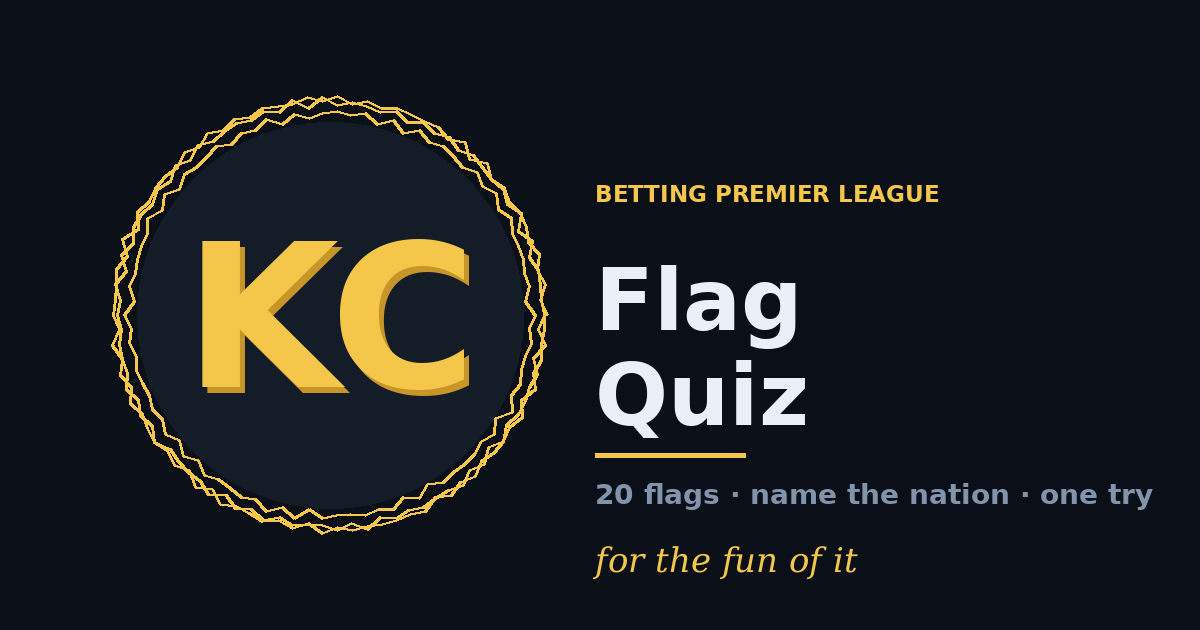
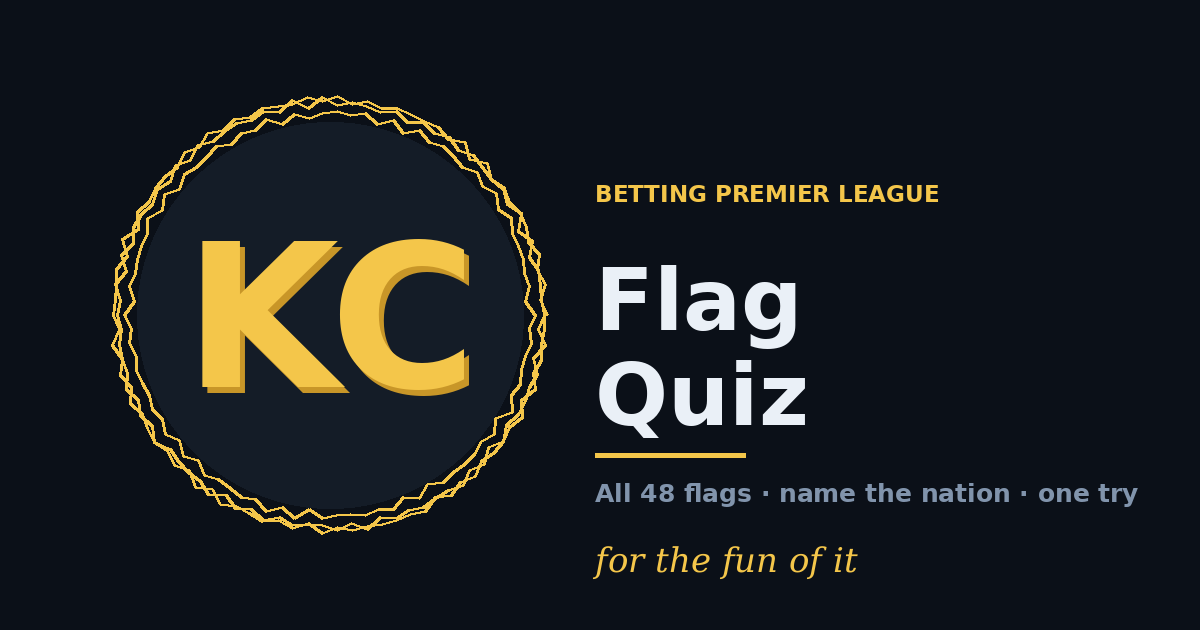
Add files via upload

Changed region(s): [[0.4933, 0.754, 0.9558, 0.8143]]

diff --git a/flag-quiz.html b/flag-quiz.html
@@ -7,7 +7,7 @@
 <title>BPL 2026 &middot; Flag Quiz</title>
 <meta property="og:type" content="website">
 <meta property="og:title" content="BPL Flag Quiz">
-<meta property="og:description" content="Whose flag is it? Name 20 World Cup nations from their flag — with KC's rating on every one.">
+<meta property="og:description" content="Whose flag is it? Name all 48 World Cup nations from their flag — with KC's rating on every one.">
 <meta property="og:image" content="https://kc-siddharth.github.io/bpl-2026/branding/kc_share_flags.png">
 <meta property="og:image:width" content="1200">
 <meta property="og:image:height" content="630">
@@ -91,7 +91,7 @@ const CONFIG = {
     <!-- TODO: title -->
     <div class="titlerow"><img class="kcmark" src="branding/kc_monogram.png" alt="KC"><h1>Flag Quiz</h1></div>
     <!-- TODO: subtitle -->
-    <div class="sub">20 flags &middot; name the nation &middot; one try each</div>
+    <div class="sub">All 48 flags &middot; name the nation &middot; one try each</div>
   </header>
 
   <div id="start" class="card">
@@ -106,7 +106,7 @@ const CONFIG = {
   </div>
 
   <div id="game" class="card hide">
-    <div class="gtop"><span>Question <b id="qnum">1</b> / <span id="qtot">20</span></span><span>Score <b id="score">0</b></span></div>
+    <div class="gtop"><span>Question <b id="qnum">1</b> / <span id="qtot">48</span></span><span>Score <b id="score">0</b></span></div>
     <div class="timerbar"><div class="timerfill" id="timerfill"></div></div>
     <!-- TODO: question label -->
     <div class="nicklbl">Whose flag is this?</div>
@@ -146,7 +146,7 @@ const CONFIG = {
    the same question (lion, eagle, rooster, and the Andean condor pair).
    Each shared animal uses a different image. Facts verified.
    ======================================================================= */
-const NK = [{"nation": "Brazil", "cc": "br", "rating": "10/10", "verdict": "10/10, just for the aesthetic", "fact": "Ah, what a beautiful flag. The Brazilian colours just pop. The stars in the middle map the mirror image of the exact morning sky above Rio de Janeiro on November 15, 1889, at 8:37 AM, the day Brazil became a republic."}, {"nation": "Canada", "cc": "ca", "rating": "8/10", "verdict": "the red is Union Jack red, wink wink", "fact": "The current Canadian flag came to being only in 1965, after the 'Great Canadian Flag Debate' in their parliament, moving away from the old British-colony style flag."}, {"nation": "Colombia", "cc": "co", "rating": "6.5/10", "verdict": "Goethe's colour theory", "fact": "The Colombia flag has the classic Bolivarian yellow, blue, and red palette."}, {"nation": "Curacao", "cc": "cw", "rating": "4.5/10", "verdict": "so-so flag", "fact": "Curacao is a Caribbean country, constituent within the Kingdom of the Netherlands. It might not look it, but the blue above the yellow line and below are different shades, meant to represent the sky and the sea."}, {"nation": "Czechia", "cc": "cz", "rating": "6/10", "verdict": "cheeky", "fact": "Czechia's white and red are the traditional colours of Bohemia. When Czechoslovakia was created in 1918 from the ruins of the Austro-Hungarian Empire after WW1, it initially flew just the white and red bicolour."}, {"nation": "DR Congo", "cc": "cd", "rating": "9/10", "verdict": "that diagonal goes hard", "fact": "The DR Congo flag is a dramatic one, because it has gone through multiple versions over the years, much like its name, from Free Congo to Zaire to now DR Congo. Sky blue represents peace. Red is the blood of the country's martyrs."}, {"nation": "Ecuador", "cc": "ec", "rating": "8.5/10", "verdict": "cool flag, nice bird", "fact": "The Ecuador flag has the classic Latin American yellow-blue-red, also shared by Colombia and Venezuela, all three descending from the flag of Francisco de Miranda and the short-lived Gran Colombia federation of the 1820s."}, {"nation": "England", "cc": "gb-eng", "rating": "7/10", "verdict": "classic, if a bit basic", "fact": "The English flag is headlined by the red St George's Cross on white, adopted as an English emblem around the time of the Crusades because it was so easy to stitch onto a crusader's tunic."}, {"nation": "Ghana", "cc": "gh", "rating": "7/10", "verdict": "best star placement", "fact": "Ghana was one of the first to fly the pan-African colours, the og being, of course, Ethiopia."}, {"nation": "Iran", "cc": "ir", "rating": "7/10", "verdict": "lots of detailing", "fact": "The Iran flag is headlined by an emblem designed by architect and graphic designer Hamid Nadimi. It is a layered piece of visual design. Read it one way and it is the word 'Allah' in stylised Arabic-Persian script."}, {"nation": "Jordan", "cc": "jo", "rating": "6/10", "verdict": "green fields, red swords", "fact": "The Jordan flag is based on the flag of the 1916 Arab Revolt against the Ottomans."}, {"nation": "Netherlands", "cc": "nl", "rating": "3/10", "verdict": "where is the orange?", "fact": "Where is the orange? I always found it strange that the Netherlands do not have orange here. Called the Prinsenvlag, this was actually intended to be orange-white-blue."}, {"nation": "Portugal", "cc": "pt", "rating": "9/10", "verdict": "colours pop, the Iberians know flags", "fact": "The Portuguese flag is headlined by a yellow armillary sphere, a navigational instrument from the so-called 'Age of Discoveries', a sanitised name for Portugal's era of seafaring exploration and warmongering, where they 'discovered' other people on other continents."}, {"nation": "Senegal", "cc": "sn", "rating": "6/10", "verdict": "not a pan-African guy, but respect", "fact": "Senegal is our first with the pan-African colours of green-yellow-red."}, {"nation": "South Africa", "cc": "za", "rating": "5/10", "verdict": "too busy for me", "fact": "The post-apartheid rainbow flag is one of the most inclusive pieces of national design ever attempted, and it was finalised under extraordinary time pressure over a weekend."}, {"nation": "South Korea", "cc": "kr", "rating": "8/10", "verdict": "cool and stylish", "fact": "The South Korean flag, the Taegukgi, is primarily white, the traditional colour of Korean dress and culture, earning Koreans the historical epithet 'the white-clad people'."}, {"nation": "Sweden", "cc": "se", "rating": "4/10", "verdict": "boring", "fact": "The Scandinavian, or Nordic, cross makes its first appearance. The Sweden flag has it in yellow, which comes from the coat of arms: three gold crowns on a blue field, in use since the 14th century."}, {"nation": "Switzerland", "cc": "ch", "rating": "5/10", "verdict": "just neutral", "fact": "This is a square flag. It is the exact inverse of the International Red Cross, which has a white background and a red cross."}, {"nation": "Tunisia", "cc": "tn", "rating": "5/10", "verdict": "strange are the likes of the mind", "fact": "The Tunisian flag is one of the older crescent-and-star flags in the world, dating to around 1831 under the Husainid dynasty, even before the Turkish flag."}, {"nation": "Uruguay", "cc": "uy", "rating": "7/10", "verdict": "a country made by Britain", "fact": "The Uruguay flag is headlined by the Sun of May, a depiction of Inti, the Inca sun god, as a symbol of independence, also found on the Argentina flag."}];
+const NK = [{"nation": "Algeria", "cc": "dz", "rating": "6/10", "verdict": "longer horns, more happiness", "fact": "In the Algerian flag, green and white represent Islam and purity, while the red in the crescent and star stands for the blood shed in the long and exceptionally violent war of independence from France."}, {"nation": "Argentina", "cc": "ar", "rating": "7/10", "verdict": "light and breezy", "fact": "Argentina's flag was created by one low-importance general, Manuel Belgrano. Legend says the sun broke through the clouds over Buenos Aires during the protests."}, {"nation": "Australia", "cc": "au", "rating": "2/10", "verdict": "I agree with the critics", "fact": "The Australian flag is called the 'Blue Ensign'. It was chosen after a competition in which five people submitted identical designs, randomly, with the Union Jack and Southern Cross constellation combination."}, {"nation": "Austria", "cc": "at", "rating": "7.5/10", "verdict": "I see bird, I rate up", "fact": "The Austrian flag is one of the oldest in the world."}, {"nation": "Belgium", "cc": "be", "rating": "7/10", "verdict": "good flag", "fact": "The Belgian flag has a backstory from an opera."}, {"nation": "Bosnia & Herzegovina", "cc": "ba", "rating": "4/10", "verdict": "designed by committee", "fact": "The Bosniaks, Serbs, and Croats who are the main ethnicities could not agree on a flag. Every traditional Bosnian symbol was politically contested."}, {"nation": "Brazil", "cc": "br", "rating": "10/10", "verdict": "10/10, just for the aesthetic", "fact": "Ah, what a beautiful flag. The Brazilian colours just pop. The stars in the middle map the mirror image of the exact morning sky above Rio de Janeiro on November 15, 1889, at 8:37 AM, the day Brazil became a republic."}, {"nation": "Canada", "cc": "ca", "rating": "8/10", "verdict": "the red is Union Jack red, wink wink", "fact": "The current Canadian flag came to being only in 1965, after the 'Great Canadian Flag Debate' in their parliament, moving away from the old British-colony style flag."}, {"nation": "Cape Verde", "cc": "cv", "rating": "4/10", "verdict": "Atlantic flags, not for me", "fact": "Cape Verde is yet another starry flag. The stars represent the ten main islands of the archipelago, arranged as a ring to symbolise unity across the scattered Atlantic chain."}, {"nation": "Colombia", "cc": "co", "rating": "6.5/10", "verdict": "Goethe's colour theory", "fact": "The Colombia flag has the classic Bolivarian yellow, blue, and red palette."}, {"nation": "Croatia", "cc": "hr", "rating": "6.5/10", "verdict": "good shield, basic flag", "fact": "Croatia is the first with the pan-Slavic colours, but the centrepiece headliner is the Sahovnica, a red-and-white checkerboard shield."}, {"nation": "Curacao", "cc": "cw", "rating": "4.5/10", "verdict": "so-so flag", "fact": "Curacao is a Caribbean country, constituent within the Kingdom of the Netherlands. It might not look it, but the blue above the yellow line and below are different shades, meant to represent the sky and the sea."}, {"nation": "Czechia", "cc": "cz", "rating": "6/10", "verdict": "cheeky", "fact": "Czechia's white and red are the traditional colours of Bohemia. When Czechoslovakia was created in 1918 from the ruins of the Austro-Hungarian Empire after WW1, it initially flew just the white and red bicolour."}, {"nation": "DR Congo", "cc": "cd", "rating": "9/10", "verdict": "that diagonal goes hard", "fact": "The DR Congo flag is a dramatic one, because it has gone through multiple versions over the years, much like its name, from Free Congo to Zaire to now DR Congo. Sky blue represents peace. Red is the blood of the country's martyrs."}, {"nation": "Ecuador", "cc": "ec", "rating": "8.5/10", "verdict": "cool flag, nice bird", "fact": "The Ecuador flag has the classic Latin American yellow-blue-red, also shared by Colombia and Venezuela, all three descending from the flag of Francisco de Miranda and the short-lived Gran Colombia federation of the 1820s."}, {"nation": "Egypt", "cc": "eg", "rating": "7.5/10", "verdict": "nice bird, good flag", "fact": "The Egypt flag is headlined by the golden eagle of Saladin, the first Sultan of Egypt and Syria, referencing the 12th-century Muslim leader who led the war against the Crusaders and recaptured Jerusalem, becoming the defining hero of Arab historical memory."}, {"nation": "England", "cc": "gb-eng", "rating": "7/10", "verdict": "classic, if a bit basic", "fact": "The English flag is headlined by the red St George's Cross on white, adopted as an English emblem around the time of the Crusades because it was so easy to stitch onto a crusader's tunic."}, {"nation": "France", "cc": "fr", "rating": "9/10", "verdict": "classic of the classics", "fact": "The French Tricolore is the og flag that has inspired revolutionary and republican flags worldwide, from Ireland to Mexico to Romania."}, {"nation": "Germany", "cc": "de", "rating": "7/10", "verdict": "solid flag", "fact": "The German flag traces its roots to the 1813 Lutzow Free Corps: soldiers who wore black uniforms with red facings and gold buttons fighting Napoleon. The reason those soldiers wore black coats was not ideological but logistical."}, {"nation": "Ghana", "cc": "gh", "rating": "7/10", "verdict": "best star placement", "fact": "Ghana was one of the first to fly the pan-African colours, the og being, of course, Ethiopia."}, {"nation": "Haiti", "cc": "ht", "rating": "8/10", "verdict": "really cool coat of arms", "fact": "The Haiti flag was created by tearing the 'white' out of a French tricolour after the revolution by the enslaved Africans."}, {"nation": "Iran", "cc": "ir", "rating": "7/10", "verdict": "lots of detailing", "fact": "The Iran flag is headlined by an emblem designed by architect and graphic designer Hamid Nadimi. It is a layered piece of visual design. Read it one way and it is the word 'Allah' in stylised Arabic-Persian script."}, {"nation": "Iraq", "cc": "iq", "rating": "5/10", "verdict": "hella awkward, that 2003 scramble", "fact": "The Iraq flag is headlined by the takbir, 'Allahu Akbar', in Kufic script. Earlier versions used the phrase in what was said to be Saddam Hussein's own handwriting, but a 2008 redesign switched it to a neutral Kufic style."}, {"nation": "Ivory Coast", "cc": "ci", "rating": "6/10", "verdict": "Ireland, reversed", "fact": "The Ivory Coast flag is almost exactly the flag of Ireland reversed. In fact, at the 2016 Olympics, the Ivory Coast flag was accidentally displayed for Ireland during a medal ceremony."}, {"nation": "Japan", "cc": "jp", "rating": "7/10", "verdict": "a true classic", "fact": "The Japanese flag is called the Hinomaru, or 'circle of the sun', referencing the Shinto supreme sun goddess Amaterasu Omikami, appropriate for the 'Land of the Rising Sun'."}, {"nation": "Jordan", "cc": "jo", "rating": "6/10", "verdict": "green fields, red swords", "fact": "The Jordan flag is based on the flag of the 1916 Arab Revolt against the Ottomans."}, {"nation": "Mexico", "cc": "mx", "rating": "8/10", "verdict": "cool bird", "fact": "The Mexican flag is headlined by an eagle perched on a cactus, holding a snake in its beak."}, {"nation": "Morocco", "cc": "ma", "rating": "5/10", "verdict": "another star on the pile", "fact": "So many flags with stars so far, eh? This star is the Seal of Solomon. Red is for the royal Alaouite family, who proclaim direct descent from the Prophet Muhammad."}, {"nation": "Netherlands", "cc": "nl", "rating": "3/10", "verdict": "where is the orange?", "fact": "Where is the orange? I always found it strange that the Netherlands do not have orange here. Called the Prinsenvlag, this was actually intended to be orange-white-blue."}, {"nation": "New Zealand", "cc": "nz", "rating": "2/10", "verdict": "boring (and not Australia)", "fact": "Just read the entry on the Australia flag. Remove two stars and make the rest red. In fact, at the 2010 Commonwealth Games, New Zealand athletes were introduced under the Australian flag."}, {"nation": "Norway", "cc": "no", "rating": "6/10", "verdict": "kinda cool, kinda ugly", "fact": "The Norwegian flag is the Danish flag with a blue cross laid over it."}, {"nation": "Panama", "cc": "pa", "rating": "5/10", "verdict": "circus-tent energy", "fact": "Panama declared independence from Colombia on November 3, 1903, backed by the US, who wanted to build a canal there and had grown frustrated with Colombia's Senate rejecting the necessary treaty."}, {"nation": "Paraguay", "cc": "py", "rating": "6/10", "verdict": "two-faced, literally", "fact": "The only flag where the front is legit different from the back. The back has a yellow lion guarding the Phrygian cap, a symbol of liberation and anti-monarchy from the French Revolution, the bonnet de la liberte."}, {"nation": "Portugal", "cc": "pt", "rating": "9/10", "verdict": "colours pop, the Iberians know flags", "fact": "The Portuguese flag is headlined by a yellow armillary sphere, a navigational instrument from the so-called 'Age of Discoveries', a sanitised name for Portugal's era of seafaring exploration and warmongering, where they 'discovered' other people on other continents."}, {"nation": "Qatar", "cc": "qa", "rating": "3/10", "verdict": "definitely not Bahrain", "fact": "The Qatari flag is the widest flag of them all, by aspect ratio. It is named 'Al Adaam', referring linguistically to the verb 'to support', as in the central pillars of the house. It is maroon, not red. Red would make it Bahrain."}, {"nation": "Saudi Arabia", "cc": "sa", "rating": "4/10", "verdict": "not the prettiest", "fact": "The Saudi flag bears the Shahada in Arabic script, the Islamic declaration of faith. Because it carries this sacred text, the flag is never flown at half-mast, even in mourning."}, {"nation": "Scotland", "cc": "gb-sct", "rating": "7.5/10", "verdict": "elegant simplicity", "fact": "The Scotland flag is the oldest continuously used national flag in the world right now, dating back to somewhere between 761 CE and 832 CE."}, {"nation": "Senegal", "cc": "sn", "rating": "6/10", "verdict": "not a pan-African guy, but respect", "fact": "Senegal is our first with the pan-African colours of green-yellow-red."}, {"nation": "South Africa", "cc": "za", "rating": "5/10", "verdict": "too busy for me", "fact": "The post-apartheid rainbow flag is one of the most inclusive pieces of national design ever attempted, and it was finalised under extraordinary time pressure over a weekend."}, {"nation": "South Korea", "cc": "kr", "rating": "8/10", "verdict": "cool and stylish", "fact": "The South Korean flag, the Taegukgi, is primarily white, the traditional colour of Korean dress and culture, earning Koreans the historical epithet 'the white-clad people'."}, {"nation": "Spain", "cc": "es", "rating": "9/10", "verdict": "colours pop, love the arms", "fact": "The Spain flag, nicknamed the 'Rojigualda', was chosen by King Charles III in 1785 specifically for the formidable Spanish navy, because so many European flags of the era were plain and hard to tell apart at sea."}, {"nation": "Sweden", "cc": "se", "rating": "4/10", "verdict": "boring", "fact": "The Scandinavian, or Nordic, cross makes its first appearance. The Sweden flag has it in yellow, which comes from the coat of arms: three gold crowns on a blue field, in use since the 14th century."}, {"nation": "Switzerland", "cc": "ch", "rating": "5/10", "verdict": "just neutral", "fact": "This is a square flag. It is the exact inverse of the International Red Cross, which has a white background and a red cross."}, {"nation": "Tunisia", "cc": "tn", "rating": "5/10", "verdict": "strange are the likes of the mind", "fact": "The Tunisian flag is one of the older crescent-and-star flags in the world, dating to around 1831 under the Husainid dynasty, even before the Turkish flag."}, {"nation": "Turkey", "cc": "tr", "rating": "7/10", "verdict": "remains a classic", "fact": "The Turkey flag is the classic crescent and star. However, contrary to popular belief, it predates Islam by many centuries. It was developed during the Hellenistic period, sometime between the 4th and 1st century BCE."}, {"nation": "United States", "cc": "us", "rating": "4/10", "verdict": "a fake-news origin story", "fact": "This one dude William writes a paper to the Historical Society of Pennsylvania claiming that his grandmother Betsy Ross had 'made with her hands the first flag' of the United States. He heard this from his aunty when he was a child."}, {"nation": "Uruguay", "cc": "uy", "rating": "7/10", "verdict": "a country made by Britain", "fact": "The Uruguay flag is headlined by the Sun of May, a depiction of Inti, the Inca sun god, as a symbol of independence, also found on the Argentina flag."}, {"nation": "Uzbekistan", "cc": "uz", "rating": "6/10", "verdict": "a bit too busy", "fact": "Uzbekistan is yet another starry flag, meant to honour the great scientific and mathematical tradition of medieval Samarkand: Musa al-Khwarizmi, of algebra fame, and ibn Sina of medicine."}];
 
 const IMG={};
 NK.forEach(function(e){ IMG[e.nation]='https://flagcdn.com/w320/'+e.cc+'.png'; });

diff --git a/index.html b/index.html
@@ -81,7 +81,7 @@
     <a class="card new" href="flag-quiz.html">
       <div class="cic">🚩</div>
       <div class="chead"><h2>Flag Quiz</h2><span class="pill new">★ New</span></div>
-      <p>See the flag, name the nation. 20 World Cup flags — one try each, and KC's rating out of 10 on every single one.</p>
+      <p>See the flag, name the nation. All 48 World Cup flags — one try each, and KC's rating out of 10 on every single one.</p>
       <div class="cgo">Play ›</div>
     </a>
   </div>